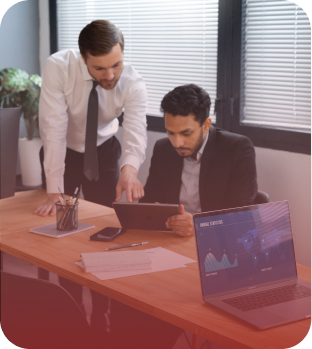
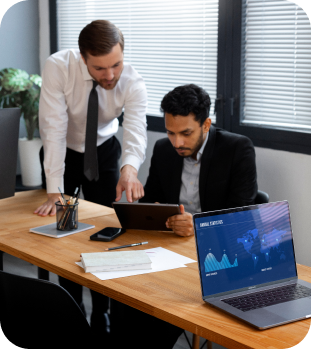
Solution Component fic

diff --git a/components/Solutions.html b/components/Solutions.html
@@ -1,51 +1,62 @@
 <section id="solutions-content">
     <div class="solutions-container">
         <div class="row">
-            <h3 class="solutions-header">{ Solutions }</h3>
+            <h3 class="solutions-header">{ SOLUTIONS }</h3>
         </div>
         <div class="row">
             <div class="solutions-body">
                 <div class="image-container">
                     <img src="../assets/solutions/1.png" alt="">
                     <div class="image-text">Vendor Due Diligence</div>
+                    <div class="gradient-overlay"></div>
                 </div>
                 <div class="image-container">
                     <img src="../assets/solutions/2.png" alt="">
                     <div class="image-text">Moonlighting Check</div>
+                    <div class="gradient-overlay"></div>
                 </div>
                 <div class="image-container">
                     <img src="../assets/solutions/3.png" alt="">
                     <div class="image-text">Social Media Check</div>
+                    <div class="gradient-overlay"></div>
                 </div>
                 <div class="image-container">
                     <img src="../assets/solutions/4.png" alt="">
                     <div class="image-text">International Employee Screening</div>
+                    <div class="gradient-overlay"></div>
                 </div>
                 <div class="image-container">
                     <img src="../assets/solutions/5.png" alt="">
                     <div class="image-text">Statutory Compliance Document Collection</div>
+                    <div class="gradient-overlay"></div>
                 </div>
                 <div class="image-container">
                     <img src="../assets/solutions/6.png" alt="">
                     <div class="image-text">Payroll Management</div>
+                    <div class="gradient-overlay"></div>
                 </div>
                 <div class="image-container">
                     <img src="../assets/solutions/7.png" alt="">
                     <div class="image-text">Employee Background Screening</div>
+                    <div class="gradient-overlay"></div>
                 </div>
                 <div class="image-container">
                     <img src="../assets/solutions/8.png" alt="">
                     <div class="image-text">Drug and Pre-Employment Health Screening</div>
+                    <div class="gradient-overlay"></div>
                 </div>
             </div>
             <div class="sulotions-body-sub d-none d-md-flex">
                 <div class="image-container">
                     <img src="../assets/solutions/9.png" alt="">
                     <div class="image-text">Adverse Web and Media Check</div>
+                    <div class="gradient-overlay"></div>
                 </div>
+                &nbsp; &nbsp;
                 <div class="image-container">
                     <img src="../assets/solutions/10.png" alt="">
                     <div class="image-text">Vendor Due Diligence</div>
+                    <div class="gradient-overlay"></div>
                 </div>
             </div>
         </div>

diff --git a/styles/solutions.css b/styles/solutions.css
@@ -20,6 +20,13 @@ h3.solutions-header {
     margin-top: 20px;
 }
 
+.image-container img {
+    width: 100%;
+    height: 100%;
+    object-fit: cover;
+    transition: 0.5s;
+}
+
 .image-text {
     position: absolute;
     bottom: 20px;
@@ -29,12 +36,29 @@ h3.solutions-header {
     font-size: 15px;
     color: white;
     font-weight: 400;
+    z-index: 1;
 }
 
 .sulotions-body-sub {
     width: 100%;
     display: flex;
     justify-content: center;
+}
+
+.gradient-overlay {
+    position: absolute;
+    top: 0;
+    left: 0;
+    width: 100%;
+    height: 100%;
+    background: linear-gradient(180deg, rgba(222, 179, 182, 0) 1.83%, #911719 120.92%);
+    transition: 1s;
+    border-radius: 25px;
+}
+
+.gradient-overlay:hover {
+    cursor: pointer;
+    background: none;
 }
 
 /* Media query for mobile view */

diff --git a/components/Products.html b/components/Products.html
@@ -1,7 +1,7 @@
 <section id="products-content">
     <div class="products-container">
         <div class="row">
-            <h3 class="products-header">{ Products }</h3>
+            <h3 class="products-header">{ PRODUCTS }</h3>
         </div>
         <div class="row">
             <div class="products-image-container">
